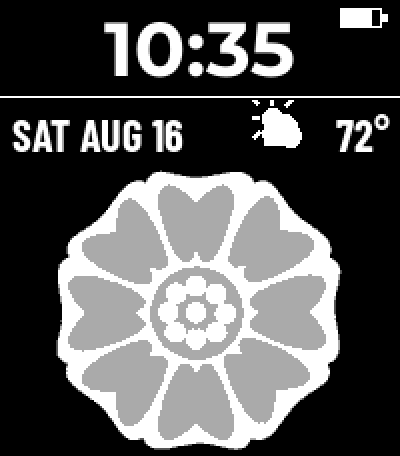
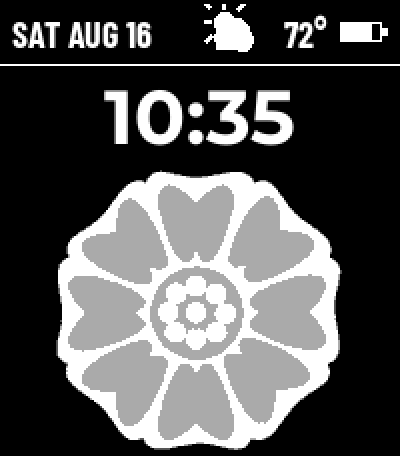
Put the day, date, weather and battery on one line, time under it
The header now reads top to bottom as info then time: the day and date
on the left of the top line, the weather icon and temperature next to
them, the battery gauge in the corner, and the time on its own line
under a hairline.

Four things on one line is what sets the info font size. At 22px the
widest date the clock can produce, "WED SEPT 30", is 104px, and that plus
the icon, the temperature and the gauge overruns the 200 by about 20.
Dropping the weekday would buy it back at a stroke, but the weekday is
half of why anyone reads a date on a watch, so the row gives up type size
instead: 18px keeps the whole date with 3px to spare. INFO_TEMP_W drops
to 30 to match, which is still enough for "100°" at that size.

The bluetooth icon has no corner left in the info row, so it moves to the
left end of the time row, which is empty -- the time is centred and at
its widest starts at x=48.

The header and the art still fill the 228 exactly, 82 + 146.
tools/mockup.py lays the row out from the battery inwards, the same order
the update proc does, so its date measurement is the real one.

Claude-Session: https://claude.ai/code/session_01X5gF5P6zNmFWki7CSijybw

Changed region(s): [[0.0, 0.0, 1.0, 0.3377], [0.84, 0.2456, 0.99, 0.3377]]

diff --git a/src/c/lotus.c b/src/c/lotus.c
@@ -5,8 +5,8 @@
 // White Lotus watchface for emery (Pebble Time 2, 200x228).
 //
 // The whole face is one layer with a single update proc, in two blocks: a
-// header carrying the time, the day, the date, the weather and the status
-// icons, and the tile's flower under it as a bitmap. Everything is drawn from
+// header -- an info row of day, date, weather and battery, with the time under
+// it -- and the tile's flower below as a bitmap. Everything is drawn from
 // cached strings so the update proc never formats anything itself.
 
 // ---------------------------------------------------------------------------
@@ -30,25 +30,38 @@
 // White Lotus tile at all -- so the time there would cover the one part of the
 // artwork worth keeping. Off it, the time gets the full screen width instead of
 // a chord across a medallion, which is why it can be this large.
-#define TIME_LEFT 0
-#define TIME_WIDTH 200
-#define TIME_TOP 0
-#define TIME_HEIGHT 48
 
-// A hairline parts the time from the row under it. There is no fill behind
+// The info row runs across the very top: the day and date on the left, then the
+// weather icon, the temperature, and the battery gauge in the corner -- one
+// line, four things.
+//
+// Fitting all four is what sets the info font size. At 22px the widest date the
+// clock can produce, "WED SEPT 30", is 104px, and 104 + the icon + the
+// temperature + the gauge overruns 200 by about 20. Dropping the weekday would
+// buy it back at a stroke, but the weekday is half of why anyone reads a date on
+// a watch. 18px keeps the whole date and still clears the gauge, so the row
+// gives up type size rather than information. tools/mockup.py measures it.
+//
+// The icon rides 2px higher than the text so their optical centres line up, and
+// the gauge is centred on the icon.
+#define INFO_TOP 4
+#define INFO_HEIGHT 24
+#define ICON_TOP 2
+#define EDGE_PAD 6
+#define INFO_GAP 6
+
+// A hairline parts the info row from the time under it. There is no fill behind
 // either: the window's black is already the black the artwork's own ground is
 // drawn in, so there is no seam to hide, and a slab of colour under a
 // black-and-white flower would be the only loud thing on the screen.
-#define RULE_TOP 48
+#define RULE_TOP 32
 #define RULE_H 1
 #define RULE_COLOR GColorWhite
 
-// The day, date and weather, in one row under the rule. The icon rides 2px
-// higher than the text so their optical centres line up.
-#define ICON_TOP 50
-#define INFO_TOP 52
-#define INFO_HEIGHT 26
-#define EDGE_PAD 6
+#define TIME_LEFT 0
+#define TIME_WIDTH 200
+#define TIME_TOP 34
+#define TIME_HEIGHT 48
 
 // The flower gets whatever the header does not, and ART_H is fixed, so this is
 // forced: 82 + 146 = 228, the whole screen, with nothing spare in either
@@ -59,16 +72,23 @@
 #define ICON_W 32
 #define ICON_H 28
 #define ICON_GAP 2
-// Width reserved for the temperature, enough for "100°". What is left of the
-// row after the icon and this goes to the date, which is why the info font is
-// condensed. tools/mockup.py prints both.
-#define INFO_TEMP_W 36
+// Width reserved for the temperature, enough for "100°" at the info size. What
+// is left of the row after the battery, this and the icon goes to the date,
+// which is why the info font is condensed. tools/mockup.py prints both.
+#define INFO_TEMP_W 30
 
 #define BATT_W 21
 #define BATT_H 10
 #define BATT_RIGHT_PAD 6
-#define BATT_TOP 4
+// Centred on the weather icon it shares the row with: ICON_TOP + (ICON_H - BATT_H) / 2.
+#define BATT_TOP 11
+// The bluetooth icon has no corner left in the info row, so it goes at the left
+// end of the time row -- which is empty, because the time is centred and at its
+// widest reaches only x=48. Drawn from y-1 to y+11, so this centres it on the
+// time row.
 #define BT_W 12
+#define BT_LEFT EDGE_PAD
+#define BT_TOP (TIME_TOP + (TIME_HEIGHT - 12) / 2 + 1)
 
 // The tile is black and white, so the whole face is.
 #define INFO_COLOR GColorWhite
@@ -144,9 +164,6 @@ static void prv_set_weather_icon(int index) {
   }
 }
 
-// The status icons take the two top corners, with the time centred between them.
-// At its widest -- "23:58" -- the time is 103px of the 200, so there is room on
-// both sides; tools/mockup.py checks both gaps.
 static void prv_draw_battery(GContext *ctx, GRect bounds) {
   const int x = bounds.size.w - BATT_RIGHT_PAD - BATT_W - 3;  // 3px for the nub
 
@@ -175,12 +192,9 @@ static void prv_draw_bluetooth(GContext *ctx, GRect bounds) {
   if (s_connected) {
     return;
   }
-  // In the opposite corner from the battery rather than beside it. Beside it,
-  // the pair reached far enough in from the right that a 24h "23:58" came
-  // within a pixel of the icon; split across the two corners, the time has the
-  // same room on either side and neither icon is anywhere near it.
-  const int x = EDGE_PAD;
-  const int y = BATT_TOP;
+  (void)bounds;
+  const int x = BT_LEFT;
+  const int y = BT_TOP;
   graphics_context_set_stroke_color(ctx, STATUS_COLOR);
   graphics_context_set_stroke_width(ctx, 2);
   graphics_draw_line(ctx, GPoint(x, y + 2), GPoint(x + 7, y + 8));
@@ -212,20 +226,21 @@ static void prv_canvas_update(Layer *layer, GContext *ctx) {
                      GRect(TIME_LEFT, TIME_TOP, TIME_WIDTH, TIME_HEIGHT),
                      GTextOverflowModeTrailingEllipsis, GTextAlignmentCenter, NULL);
 
-  // The weather sits against the right edge; the date gets everything to the
-  // left of it, so it never has to be truncated.
-  const int icon_x = bounds.size.w - EDGE_PAD - INFO_TEMP_W - ICON_GAP - ICON_W;
+  // The battery holds the right end of the row, the weather sits inboard of it,
+  // and the date gets everything left of that, so the date is never truncated.
+  const int batt_x = bounds.size.w - BATT_RIGHT_PAD - BATT_W - 3;
+  const int temp_x = batt_x - INFO_GAP - INFO_TEMP_W;
+  const int icon_x = temp_x - ICON_GAP - ICON_W;
 
   graphics_context_set_text_color(ctx, INFO_COLOR);
   graphics_draw_text(ctx, s_date_text, s_info_font,
-                     GRect(EDGE_PAD, INFO_TOP, icon_x - EDGE_PAD - ICON_GAP, INFO_HEIGHT),
+                     GRect(EDGE_PAD, INFO_TOP, icon_x - EDGE_PAD - INFO_GAP, INFO_HEIGHT),
                      GTextOverflowModeTrailingEllipsis, GTextAlignmentLeft, NULL);
 
   if (s_has_weather) {
-    graphics_draw_text(
-        ctx, s_temp_text, s_info_font,
-        GRect(bounds.size.w - EDGE_PAD - INFO_TEMP_W, INFO_TOP, INFO_TEMP_W, INFO_HEIGHT),
-        GTextOverflowModeTrailingEllipsis, GTextAlignmentRight, NULL);
+    graphics_draw_text(ctx, s_temp_text, s_info_font,
+                       GRect(temp_x, INFO_TOP, INFO_TEMP_W, INFO_HEIGHT),
+                       GTextOverflowModeTrailingEllipsis, GTextAlignmentRight, NULL);
     if (s_weather_icon) {
       graphics_context_set_compositing_mode(ctx, GCompOpSet);
       graphics_draw_bitmap_in_rect(ctx, s_weather_icon,
@@ -338,7 +353,7 @@ static void prv_window_load(Window *window) {
   s_tile = gbitmap_create_with_resource(RESOURCE_ID_IMAGE_TILE);
   s_weather_sheet = gbitmap_create_with_resource(RESOURCE_ID_IMAGE_WEATHER_ICONS);
   s_time_font = fonts_load_custom_font(resource_get_handle(RESOURCE_ID_FONT_TIME_38));
-  s_info_font = fonts_load_custom_font(resource_get_handle(RESOURCE_ID_FONT_INFO_22));
+  s_info_font = fonts_load_custom_font(resource_get_handle(RESOURCE_ID_FONT_INFO_18));
 
   s_canvas = layer_create(bounds);
   layer_set_update_proc(s_canvas, prv_canvas_update);

diff --git a/tools/mockup.py b/tools/mockup.py
@@ -8,9 +8,10 @@ the places where the layout can silently overflow:
   * the time against its band. It has the full screen width now that it sits
     off the flower rather than inside the tile's seed pod, so the binding
     constraint is the band's height, not its width.
-  * the time against the status icons, which share the top row with it.
-  * the date against what the info row leaves it once the weather has taken the
-    right-hand end.
+  * the date against what the info row leaves it once the weather and the
+    battery have taken the right-hand end. This is the tight one, and the
+    reason the info font is 18 rather than 22.
+  * the time against the bluetooth icon, which shares the time row with it.
   * the header against the flower, which has to fit in what is left of the 228.
 
 Each is reported with its slack, and the script exits non-zero if any has run
@@ -33,19 +34,28 @@ FONTS = os.path.join(ROOT, "resources", "fonts")
 
 # Mirrors the LAYOUT block in src/c/lotus.c.
 SCREEN_W, SCREEN_H = 200, 228
-TIME_SIZE = 38
-TIME_TOP = 0
-TIME_HEIGHT = 48
-RULE_TOP = 48
-RULE_H = 1
-INFO_SIZE = 22
-INFO_TOP = 52
-INFO_HEIGHT = 26
-ART_TOP = 82
+INFO_SIZE = 18
+INFO_TOP = 4
+INFO_HEIGHT = 24
 EDGE_PAD = 6
-ICON_W, ICON_H, ICON_GAP, ICON_TOP = 32, 28, 2, 50
-INFO_TEMP_W = 36
-BATT_W, BATT_H, BATT_RIGHT_PAD, BATT_TOP, BT_W = 21, 10, 6, 4, 12
+INFO_GAP = 6
+ICON_W, ICON_H, ICON_GAP, ICON_TOP = 32, 28, 2, 2
+INFO_TEMP_W = 30
+RULE_TOP = 32
+RULE_H = 1
+TIME_SIZE = 38
+TIME_TOP = 34
+TIME_HEIGHT = 48
+ART_TOP = 82
+BATT_W, BATT_H, BATT_RIGHT_PAD, BATT_TOP, BT_W = 21, 10, 6, 11, 12
+BT_LEFT = EDGE_PAD
+BT_TOP = TIME_TOP + (TIME_HEIGHT - 12) // 2 + 1
+
+# The right-hand end of the info row, laid out from the battery inwards -- the
+# same order src/c/lotus.c derives it in.
+BATT_X = SCREEN_W - BATT_RIGHT_PAD - BATT_W - 3
+TEMP_X = BATT_X - INFO_GAP - INFO_TEMP_W
+ICON_X = TEMP_X - ICON_GAP - ICON_W
 
 BLACK = (0, 0, 0)
 WHITE = (255, 255, 255)
@@ -71,8 +81,8 @@ def draw_face(time_text, date_text, temp_text, icon_index):
 
     d.rectangle([0, RULE_TOP, SCREEN_W, RULE_TOP + RULE_H - 1], fill=WHITE)
 
-    # The battery, because it is the thing the time is now closest to.
-    bx = SCREEN_W - BATT_RIGHT_PAD - BATT_W - 3
+    # The battery, because it shares the info row and sets its right-hand end.
+    bx = BATT_X
     d.rectangle([bx, BATT_TOP, bx + BATT_W - 1, BATT_TOP + BATT_H - 1], outline=WHITE)
     d.rectangle([bx + BATT_W, BATT_TOP + 3, bx + BATT_W + 2, BATT_TOP + BATT_H - 4], fill=WHITE)
     d.rectangle([bx + 1, BATT_TOP + 1, bx + 1 + (BATT_W - 2) * 3 // 4, BATT_TOP + BATT_H - 2],
@@ -81,13 +91,13 @@ def draw_face(time_text, date_text, temp_text, icon_index):
     d.text((SCREEN_W / 2, TIME_TOP + TIME_HEIGHT / 2), time_text, font=time_font,
            fill=WHITE, anchor="mm")
 
-    icon_x = SCREEN_W - EDGE_PAD - INFO_TEMP_W - ICON_GAP - ICON_W
     d.text((EDGE_PAD, INFO_TOP + 2), date_text, font=info_font, fill=WHITE)
-    d.text((SCREEN_W - EDGE_PAD, INFO_TOP + 2), temp_text, font=info_font, fill=WHITE, anchor="ra")
+    d.text((TEMP_X + INFO_TEMP_W, INFO_TOP + 2), temp_text, font=info_font, fill=WHITE,
+           anchor="ra")
 
     sheet = ba.weather_sheet()
     frame = sheet.crop((icon_index * ICON_W, 0, (icon_index + 1) * ICON_W, ICON_H))
-    face.paste(frame, (icon_x, ICON_TOP), frame)
+    face.paste(frame, (ICON_X, ICON_TOP), frame)
 
     return face
 
@@ -108,26 +118,24 @@ def check():
         if w > SCREEN_W or h > TIME_HEIGHT:
             ok = False
 
-    # The time is centred in the top band, with bluetooth in the left corner and
-    # the battery in the right. Both gaps have to stay open.
-    bt_right = EDGE_PAD + BT_W
-    batt_left = SCREEN_W - BATT_RIGHT_PAD - BATT_W - 3
+    # The time is centred in its row; the bluetooth icon sits at the left end of
+    # the same row while the link is down.
+    bt_right = BT_LEFT + BT_W
     for s in WIDEST_TIME:
         w, _ = text_size(time_font, s)
-        left, right = SCREEN_W / 2 - w / 2, SCREEN_W / 2 + w / 2
-        slack = min(left - bt_right, batt_left - right)
-        print("stat  %-6s %3d..%-3d between icons %d and %d  slack %+3d"
-              % (s, left, right, bt_right, batt_left, slack))
-        if slack < 0:
+        left = SCREEN_W / 2 - w / 2
+        print("bt    %-6s starts %3d  icon ends %3d      slack %+3d"
+              % (s, left, bt_right, left - bt_right))
+        if left < bt_right:
             ok = False
 
     # The header and the flower fill the screen exactly: the info row has to end
     # before the art starts, and the art has to end before the screen does.
     info_bottom = max(INFO_TOP + INFO_HEIGHT, ICON_TOP + ICON_H)
-    print("head  time %d..%d  rule %d  info %d..%d  art at %d  slack %+3d"
-          % (TIME_TOP, TIME_TOP + TIME_HEIGHT, RULE_TOP, INFO_TOP, info_bottom, ART_TOP,
-             ART_TOP - info_bottom))
-    if TIME_TOP + TIME_HEIGHT > RULE_TOP or info_bottom > ART_TOP:
+    print("head  info %d..%d  rule %d  time %d..%d  art at %d  slack %+3d"
+          % (INFO_TOP, info_bottom, RULE_TOP, TIME_TOP, TIME_TOP + TIME_HEIGHT, ART_TOP,
+             ART_TOP - TIME_TOP - TIME_HEIGHT))
+    if info_bottom > RULE_TOP or TIME_TOP + TIME_HEIGHT > ART_TOP:
         ok = False
 
     print("art   %d..%d  screen %d  slack %+3d"
@@ -135,8 +143,7 @@ def check():
     if ART_TOP + ba.ART_H > SCREEN_H:
         ok = False
 
-    icon_x = SCREEN_W - EDGE_PAD - INFO_TEMP_W - ICON_GAP - ICON_W
-    room = icon_x - EDGE_PAD - ICON_GAP
+    room = ICON_X - EDGE_PAD - INFO_GAP
     w, _ = text_size(info_font, WIDEST_DATE)
     print("date  %-11s %3d  in row   %3d  slack %+3d" % (WIDEST_DATE, w, room, room - w))
     if w > room:

diff --git a/README.md b/README.md
@@ -2,8 +2,8 @@
 
 A Pebble Time 2 watchface built around the White Lotus tile from *Avatar: The
 Last Airbender* — the Pai Sho tile the Order of the White Lotus uses as its
-sign. The time, day, date and weather sit in a header across the top, and the
-flower fills everything below it.
+sign. The day, date, weather and battery share one line across the top, the
+time sits under them, and the flower fills everything below.
 
 ![preview](preview.png)
 
@@ -61,9 +61,9 @@ Two things about the source are worth knowing before touching
 ## Layout
 
 Everything is drawn by one update proc in `src/c/lotus.c`, in two blocks: a
-header down to y=82 — the time, a hairline, then the day, date and weather in
-one row — and the flower bitmap filling y=82 to the bottom. The `LAYOUT` block
-at the top of that file has every coordinate.
+header down to y=82 — an info row of day, date, weather and battery, a hairline,
+then the time — and the flower bitmap filling y=82 to the bottom. The `LAYOUT`
+block at the top of that file has every coordinate.
 
 Every readable thing is in the header because **a timeline peek slides up from
 the bottom of the screen** and holds a band of it for as long as it is up.
@@ -81,10 +81,19 @@ part of the artwork worth having. In exchange the time gets the full screen
 width instead of a chord across the middle of a disc, which is why it can be
 38px.
 
+Four things on one line is what sets the info font size. At 22px the widest date
+the clock can produce, `WED SEPT 30`, is 104px, and that plus the icon, the
+temperature and the gauge overruns the 200 by about 20. Dropping the weekday
+would buy it back at a stroke, but the weekday is half of why anyone reads a
+date on a watch — so the row gives up type size instead and the font is 18px,
+which keeps the whole date with 3px to spare.
+
+The bluetooth icon has no corner left in that row, so it goes at the left end of
+the time row, which is empty: the time is centred and at its widest starts at
+x=48.
+
 The header and the art fill the 228px exactly — 82 + 146 — so growing the header
-means regenerating the art shorter. The status icons take the two top corners,
-with the time centred between them and 18px to spare on each side at its
-widest.
+means regenerating the art shorter.
 
 `tools/mockup.py` measures the fits that can silently overflow and exits
 non-zero if any slack goes negative, so run it after changing a font size,
@@ -92,11 +101,11 @@ non-zero if any slack goes negative, so run it after changing a font size,
 
 ```
 time  23:58  103x29  in band 200x48  slack +97 wide +19 tall
-stat  23:58   48..151 between icons 18 and 170  slack +18
-head  time 0..48  rule 48  info 52..78  art at 82  slack  +4
+bt    23:58  starts  48  icon ends  18      slack +30
+head  info 4..30  rule 32  time 34..82  art at 82  slack  +0
 art   82..228  screen 228  slack  +0
-date  WED SEPT 30 104  in row   116  slack +12
-temp  100°         34  in  36       slack  +2
+date  WED SEPT 30  85  in row    88  slack  +3
+temp  100°         28  in  30       slack  +2
 ```
 
 ## Weather
@@ -115,8 +124,12 @@ Temperature is in Fahrenheit. To switch, change `UNITS` at the top of
 `src/pkjs/index.js` to `'celsius'` and rebuild — the watch only ever receives a
 number.
 
-Battery is a gauge in the top right. The bluetooth icon only appears when the
-watch is disconnected, in the top left, with a double buzz when the link drops.
+Battery is a gauge at the right end of the info row. The bluetooth icon only
+appears when the watch is disconnected, at the left of the time row, with a
+double buzz when the link drops. The emulator's `emu-bt-connection` does not
+drive the Pebble-app connection handler this face subscribes to, so the only way
+to see that icon in the emulator is to build with `s_connected` initialised
+false.
 
 ## Building
 
